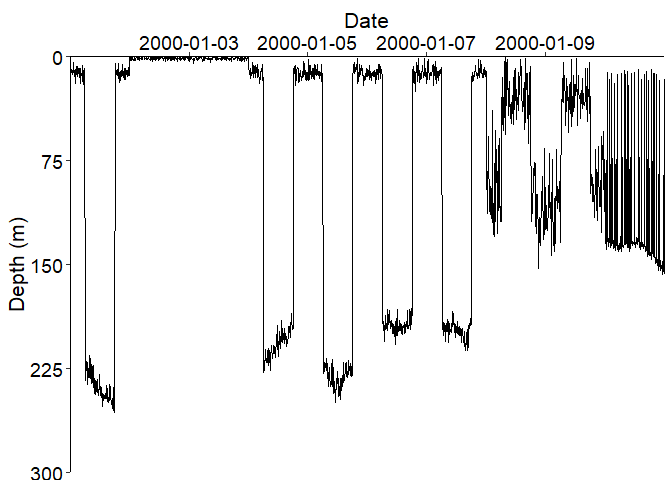
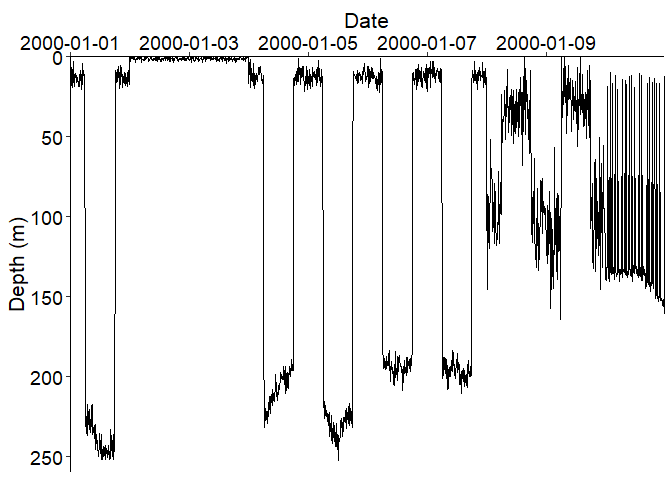
Updated to rds_file instead of tag_ID

diff --git a/README.md b/README.md
@@ -118,30 +118,30 @@ archive_days <- import_tag_data(
 #> Maximum depth = 262.2
 #> Number of full days in dataset: 10
 #> 
-#> Output file: C:\Users\User\AppData\Local\Temp\RtmpS28ALG/data/archive_days.rds
+#> Output file: C:\Users\User\AppData\Local\Temp\RtmpQFEUNv/data/archive_days.rds
 # Plot the depth time-series record
 TDR_plot <- plot_TDR(
-  tag_ID = "data",
+  rds_file = "data/archive_days.rds",
   data_folder = filepath,
   every_nth = 1 * 10, # 1 minute depth sampling frequency. Plot every 10th data point = 10 minutes.
-  every_s = 0,
+  every_s = 600,
   plot_size = c(12, 6),
   X_lim = NULL,
-  Y_lim = c(0, 300, 75),
+  Y_lim = c(0, 260, 50),
   date_breaks = "48 hour",
   output_folder = output_folder
 )
 #> 
 #> Data sampling interval is 60 seconds
-#> Plotting every 10 records 
+#> Plotting every 600 seconds 
 #> 
-#> Maximum depth is 256.6 meters
+#> Maximum depth is 252.5 meters
 ```
 
 <img src="man/figures/README-Import-data-1.png" width="100%" />
 
     #> 
-    #> Output file: C:\Users\User\AppData\Local\Temp\RtmpS28ALG/data/data_archive.png
+    #> Output file: C:\Users\User\AppData\Local\Temp\RtmpQFEUNv/tag_archive.png
 
 The `create_wavelet()` function performs wavelet analysis on the
 processed tag archive using the ‘WaveletComp’ package
@@ -208,9 +208,9 @@ my.w <- create_wavelet(
 #> Class attributes are accessible through following names:
 #> series loess.span dt dj Wave Phase Ampl Power Power.avg Power.pval Power.avg.pval Ridge Period Scale nc nr coi.1 coi.2 axis.1 axis.2 date.format date.tz 
 #> 
-#> Wavelet saved to C:\Users\User\AppData\Local\Temp\RtmpS28ALG/data/1_Wavelets/data_wavelet.rds
+#> Wavelet saved to C:\Users\User\AppData\Local\Temp\RtmpQFEUNv/data/1_Wavelets/data_wavelet.rds
 #> 
-#> Output folder: C:\Users\User\AppData\Local\Temp\RtmpS28ALG/data/2_Wavelet_Figures/
+#> Output folder: C:\Users\User\AppData\Local\Temp\RtmpQFEUNv/data/2_Wavelet_Figures/
 ```
 
 The two functions `create_wavelet_stats()` and `create_depth_stats()`
@@ -231,7 +231,7 @@ waveStats <- create_wavelet_stats(
 #> 
 #> Running create_wavelet_stats() on tag ID data 
 #> 
-#> Output file: C:\Users\User\AppData\Local\Temp\RtmpS28ALG/data/3_Stats/data_waveStats.csv
+#> Output file: C:\Users\User\AppData\Local\Temp\RtmpQFEUNv/data/3_Stats/data_waveStats.csv
 # Create daily and diel depth statistics
 depthStats <- create_depth_stats(
   archive = archive_days,
@@ -248,7 +248,7 @@ depthStats <- create_depth_stats(
 #> Reading in GPS locations. Using actual sunrise and sunset times to calculate diel statistics
 #> Archive updated with diel periods based on GPS calculated times
 #> 
-#> Output folder: C:\Users\User\AppData\Local\Temp\RtmpS28ALG/data/3_Stats/data_depthStats.csv
+#> Output folder: C:\Users\User\AppData\Local\Temp\RtmpQFEUNv/data/3_Stats/data_depthStats.csv
 ```
 
 Performing Principal Component Analysis (PCA). PCA is performed to
@@ -304,7 +304,7 @@ pc_data <- pca_data(
   output_folder = output_folder
 )
 #> 
-#> Output file: C:\Users\User\AppData\Local\Temp\RtmpS28ALG/data/4_PCA/pc_data.rds
+#> Output file: C:\Users\User\AppData\Local\Temp\RtmpQFEUNv/data/4_PCA/pc_data.rds
 # Run Principal Component Analysis on the data frame to calculate PC scores
 pc_results <- pca_results(
   pc_data = pc_data,
@@ -328,15 +328,15 @@ pc_results <- pca_results(
 #> 
 #> 7 principal components of 9 have eigenvalues >= 1 
 #> 
-#> Output file: C:\Users\User\AppData\Local\Temp\RtmpS28ALG/data/4_PCA/eigenvalues_cum_var.csv
+#> Output file: C:\Users\User\AppData\Local\Temp\RtmpQFEUNv/data/4_PCA/eigenvalues_cum_var.csv
 #> Using cumulative variance threshold: Keeping 3 principal components to reach 90 % variance
 ```
 
 <img src="man/figures/README-Principal-Component-Analysis-1.png" width="100%" /><img src="man/figures/README-Principal-Component-Analysis-2.png" width="100%" />
 
-    #> Output folder: C:\Users\User\AppData\Local\Temp\RtmpS28ALG/data/4_PCA 
+    #> Output folder: C:\Users\User\AppData\Local\Temp\RtmpQFEUNv/data/4_PCA 
     #> 
-    #> Output file: C:\Users\User\AppData\Local\Temp\RtmpS28ALG/data/4_PCA/pc_results.rds contains the selected number of principal components.
+    #> Output file: C:\Users\User\AppData\Local\Temp\RtmpQFEUNv/data/4_PCA/pc_results.rds contains the selected number of principal components.
     # Extract the principal component scores.
     pc_scores <- pca_scores(
       pc_results = pc_results,
@@ -347,9 +347,9 @@ pc_results <- pca_results(
 <img src="man/figures/README-Principal-Component-Analysis-3.png" width="100%" /><img src="man/figures/README-Principal-Component-Analysis-4.png" width="100%" /><img src="man/figures/README-Principal-Component-Analysis-5.png" width="100%" /><img src="man/figures/README-Principal-Component-Analysis-6.png" width="100%" />
 
     #> 
-    #> Output folder: C:\Users\User\AppData\Local\Temp\RtmpS28ALG/data/4_PCA
+    #> Output folder: C:\Users\User\AppData\Local\Temp\RtmpQFEUNv/data/4_PCA
     #> 
-    #> Output file: C:\Users\User\AppData\Local\Temp\RtmpS28ALG/data/4_PCA/pc_scores.rds
+    #> Output file: C:\Users\User\AppData\Local\Temp\RtmpQFEUNv/data/4_PCA/pc_scores.rds
 
 The PC scores and depth statistics calculated from the raw tag data are
 combined prior to clustering. `combine_data()` loads the depth
@@ -364,7 +364,7 @@ kmeans_features <- combine_data(
   output_folder = output_folder
 )
 #> 
-#> Saving combined metrics to: C:\Users\User\AppData\Local\Temp\RtmpS28ALG/data/5_k-means/combined_stats.rds
+#> Saving combined metrics to: C:\Users\User\AppData\Local\Temp\RtmpQFEUNv/data/5_k-means/combined_stats.rds
 # Optionally at this stage the user may select to remove or add additional statistics. If data are modified, be sure to re-standardise the data frame.
 # kmeans_features <- kmeans_features[,c(1:8, 10:20)]
 ```
@@ -433,7 +433,7 @@ selecting_k <- select_k(
 #> 
 #> 1 2 3 4 5 6 7 8 
 #> 1 1 1 1 3 1 1 1
-#> Single tag output file: C:\Users\User\AppData\Local\Temp\RtmpS28ALG/data/5_k-means/Select_k.3_PCs.png
+#> Single tag output file: C:\Users\User\AppData\Local\Temp\RtmpQFEUNv/data/5_k-means/Select_k.3_PCs.png
 ```
 
 <img src="man/figures/README-Kmeans-clustering-1.png" width="100%" />
@@ -460,7 +460,7 @@ kmeans_result <- k_clustering(
 #> 2   data       2               1
 #> 3   data       3               2
 #> 4   data       4               5
-#> Output folder: C:\Users\User\AppData\Local\Temp\RtmpS28ALG/data/5_k-means
+#> Output folder: C:\Users\User\AppData\Local\Temp\RtmpQFEUNv/data/5_k-means
 ```
 
 <img src="man/figures/README-Kmeans-clustering-2.png" width="100%" />
@@ -506,7 +506,7 @@ TDR_plot <- plot_cluster_TDR(
 <img src="man/figures/README-Plot-TDR-1.png" width="100%" />
 
     #> 
-    #>  Output file: C:\Users\User\AppData\Local\Temp\RtmpS28ALG/data_TDR_k=4.png
+    #>  Output file: C:\Users\User\AppData\Local\Temp\RtmpQFEUNv/data_TDR_k=4.png
 
 Plot the depth time-series of the 24-hour segments closest to the centre
 of each cluster group. ‘No_days’ allows you to choose the number of
@@ -542,7 +542,7 @@ plots_list <- plot_clusters(
 #>  Cluster 3 dates 2000-01-03 Tag: data
 #> 
 #>  Cluster 4 dates 2000-01-04 Tag: data
-#> Output folder: C:\Users\User\AppData\Local\Temp\RtmpS28ALG/data/6_Cluster-plots.K=4_shaded
+#> Output folder: C:\Users\User\AppData\Local\Temp\RtmpQFEUNv/data/6_Cluster-plots.K=4_shaded
 ```
 
 <img src="man/figures/README-Plot-clusters-1.png" width="100%" />
